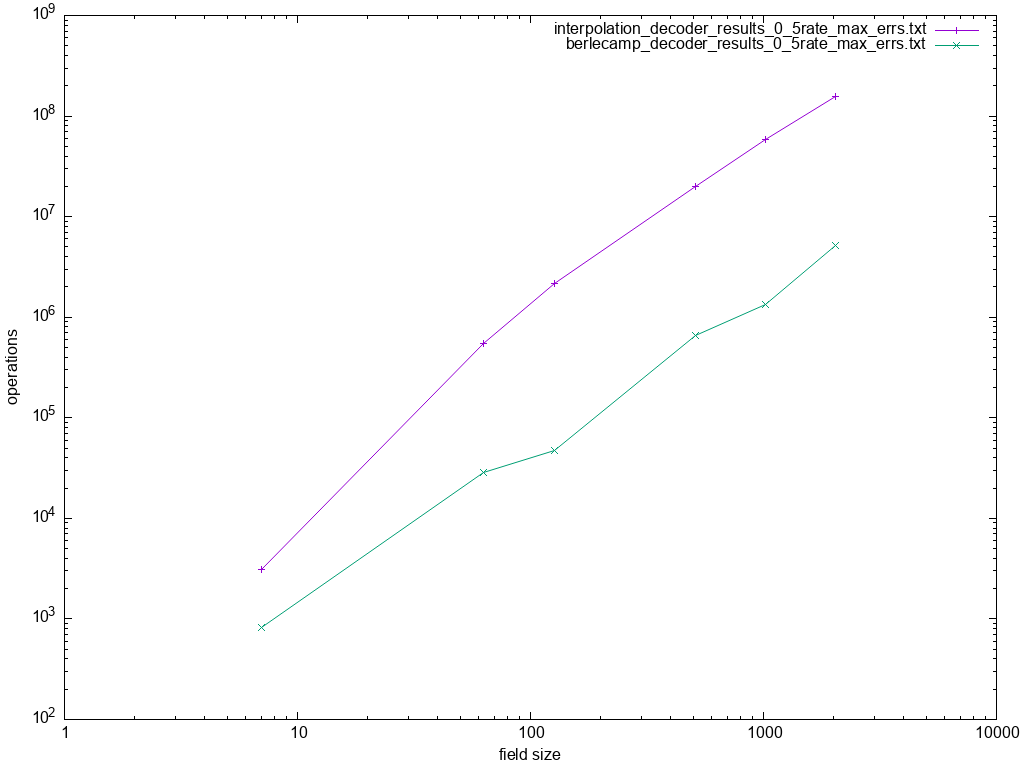
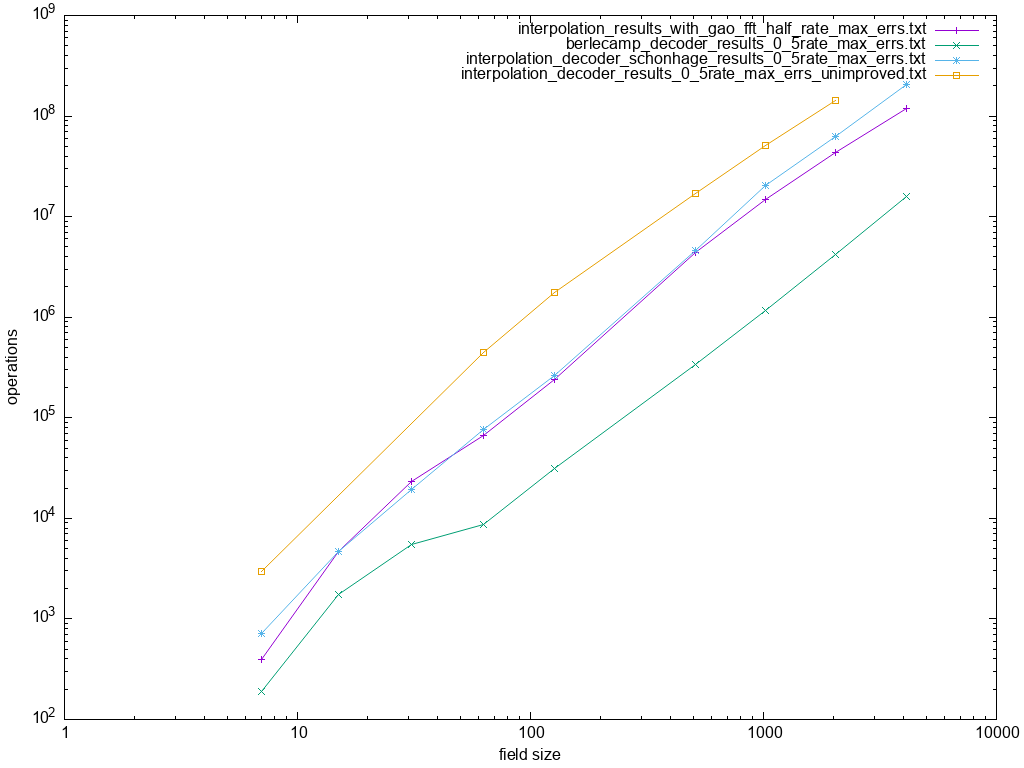
add_poly assymtotic blow up fixed

diff --git a/fast_interpolation_reed_solomon_decoder/galois_field.cpp b/fast_interpolation_reed_solomon_decoder/galois_field.cpp
@@ -89,38 +89,41 @@ void galois_field::init() {
 	//}
 	////std::cout << "\n";
 	size_t tmp_sizes = _q;
+	size_t cur = tmp_sizes;
 	_emgcd_tmp_polynomials.resize(_m + 3);
 	for (auto& tmp : _emgcd_tmp_polynomials) {
 		for (auto& v : tmp) {
-			v.resize(tmp_sizes);
+			v.resize(2 * cur);
 		}
+		cur >>= 1;
+		++cur;
 	}
 
+	cur = tmp_sizes;
 	_emgcd_tmp_result.resize(_m + 3);
 	for (auto& tmp : _emgcd_tmp_result) {
 		for (auto& v : tmp) {
-			v.first.resize(tmp_sizes);
-			v.second.resize(tmp_sizes);
+			v.first.resize(2 * cur);
+			v.second.resize(2 * cur);
 		}
+		cur >>= 1;
+		++cur;
+
 	}
+	cur = tmp_sizes;
 	_emgcd_tmp_result2.resize(_m + 3);
 	for (auto& tmp : _emgcd_tmp_result2) {
 		for (auto& v : tmp) {
-			v.first.resize(tmp_sizes);
-			v.second.resize(tmp_sizes);
+			v.first.resize(2 * cur);
+			v.second.resize(2 * cur);
 		}
+		cur >>= 1;
+		++cur;
 	}
 
-	_dft_tmp.resize(_m + 1);
-	_idft_tmp.resize(_m + 1);
+	_dft_tmp.resize(1);
 	for (auto& a : _dft_tmp) {
-		a.resize(tmp_sizes);
-		for (auto& v : a) {
-			v.resize(tmp_sizes);
-		}
-	}
-	for (auto& a : _idft_tmp) {
-		a.resize(tmp_sizes);
+		a.resize(2);
 		for (auto& v : a) {
 			v.resize(tmp_sizes);
 		}
@@ -146,8 +149,8 @@ void galois_field::init() {
 
 	std::cout << "initting mult tmps\n";
 	size_t size = 9 * _q;
-	/*
-	for (size_t i = 0; i < _schonhage_dft_tmp.size(); ++i) {
+	
+	/*for (size_t i = 0; i < _schonhage_dft_tmp.size(); ++i) {
 		_schonhage_dft_tmp[i].resize(size);
 		for (auto& v : _schonhage_dft_tmp[i]) {
 			v.resize(size);
@@ -325,32 +328,32 @@ std::vector<unsigned>& galois_field::fast_poly_multiplication(std::vector<unsign
 
 std::vector<unsigned>& galois_field::fast_poly_multiplication(std::vector<unsigned>& a, std::vector<unsigned>& b, std::vector<unsigned>& dst, unsigned length) {
 	++_poly_multiplications;
-	//if (length <= 128 || length > _q / 2) {
+	if (length <= 128 || length > _q / 2) {
 		size_t len = 1 << (sizeof(unsigned) * 8 - std::countl_zero(length - 1));
 		caratsuba_multiplication(a, b, _multiplication_result_tmp, len, 0);
 
-	//}
-	//else if (length <= _q / 2) {
-		//size_t len = 1 << (sizeof(unsigned) * 8 - std::countl_zero(length - 1));
-		//caratsuba_multiplication(a, b, _multiplication_result_tmp, len, 0);
+	}
+	else if (length <= _q / 2) {
+		size_t len = 1 << (sizeof(unsigned) * 8 - std::countl_zero(length - 1));
+		caratsuba_multiplication(a, b, _multiplication_result_tmp, len, 0);
 		//print_poly(_multiplication_result_tmp);
-		//unsigned m = sizeof(unsigned) * 8 - std::countl_zero(length - 1) + 1;
+		unsigned m = sizeof(unsigned) * 8 - std::countl_zero(length - 1) + 1;
 		//std::cout << _q << " " << length << " " << m << "\n";
-		//for (size_t i = 0; i < 3; ++i) {
-			//std::fill(_caratsuba_tmp[0][i].begin(), _caratsuba_tmp[0][i].begin() + _n, 0);
-		//}
+		for (size_t i = 0; i < 3; ++i) {
+			std::fill(_caratsuba_tmp[0][i].begin(), _caratsuba_tmp[0][i].begin() + _n, 0);
+		}
 		//print_poly(a);
 		//print_poly(b);
-		//std::fill(_multiplication_result_tmp.begin(), _multiplication_result_tmp.end(), 0);
-		//gao_mateer_fft(a, _caratsuba_tmp[0][0], m);
-		//gao_mateer_fft(b, _caratsuba_tmp[0][1], m);
-		//for (size_t i = 0; i < (1 << m); ++i) {
-			//_caratsuba_tmp[0][2][i] = multiply(_caratsuba_tmp[0][0][i], _caratsuba_tmp[0][1][i]);
-		//}
+		std::fill(_multiplication_result_tmp.begin(), _multiplication_result_tmp.end(), 0);
+		gao_mateer_fft(a, _caratsuba_tmp[0][0], m);
+		gao_mateer_fft(b, _caratsuba_tmp[0][1], m);
+		for (size_t i = 0; i < (1 << m); ++i) {
+			_caratsuba_tmp[0][2][i] = multiply(_caratsuba_tmp[0][0][i], _caratsuba_tmp[0][1][i]);
+		}
 		//print_poly(_caratsuba_tmp[0][2]);
-		//gao_mateer_ifft(_caratsuba_tmp[0][2], _multiplication_result_tmp, m);
+		gao_mateer_ifft(_caratsuba_tmp[0][2], _multiplication_result_tmp, m);
 		//print_poly(_multiplication_result_tmp);
-	//} /*else {
+	} /*else {
 		//unsigned len = length - 1;
 		//unsigned n = 1;
 		//while (len >= 1) {
@@ -380,7 +383,7 @@ std::vector<unsigned>& galois_field::fast_poly_multiplication(std::vector<unsign
 		}
 		
 	
-	} else {
+	}*/ /*else {
 		unsigned len = length - 1;
 		unsigned n = 1;
 		while (len >= 1) {
@@ -474,14 +477,14 @@ std::array<std::pair<std::vector<unsigned>, std::vector<unsigned>>, 3>&
 	fast_poly_multiplication(result[1].first, locals[2], locals[4]);
 	fast_poly_multiplication(result[2].first, locals[3], locals[1]);
 	
-	add_poly(locals[4], locals[1], locals[0], 0);
-	add_poly(locals[0], result[0].first, locals[4], m); // d
+	add_poly(locals[4], locals[1], locals[0], 0, n + 1);
+	add_poly(locals[0], result[0].first, locals[4], m, n + 1); // d
 	
 	// in some locals may be litter
 	fast_poly_multiplication(result[1].second, locals[2], locals[5]);
 	fast_poly_multiplication(result[2].second, locals[3], locals[1]);
-	add_poly(locals[5], locals[1], locals[0], 0);
-	add_poly(locals[0], result[0].second, locals[5], m); // e
+	add_poly(locals[5], locals[1], locals[0], 0, n + 1);
+	add_poly(locals[0], result[0].second, locals[5], m, n + 1); // e
 
 	unsigned deg_e = degree(locals[5]);
 	if (deg_e < m) {
@@ -511,18 +514,18 @@ std::array<std::pair<std::vector<unsigned>, std::vector<unsigned>>, 3>&
 	// fst part of the answer
 	fast_poly_multiplication(result2[1].first, locals[2], locals[0]);
 	fast_poly_multiplication(result2[2].first, locals[3], locals[1]);
-	add_poly(locals[0], locals[1], locals[4], 0);
+	add_poly(locals[0], locals[1], locals[4], 0, n + 1);
 	swap(locals[0], locals[4]);
 
-	add_poly(locals[0], result2[0].first, locals[4], k); // d
+	add_poly(locals[0], result2[0].first, locals[4], k, n + 1); // d
 
 	// in some locals may be litter
 	fast_poly_multiplication(result2[1].second, locals[2], locals[0]);
 	fast_poly_multiplication(result2[2].second, locals[3], locals[1]);
-	add_poly(locals[0], locals[1], locals[5], 0);
+	add_poly(locals[0], locals[1], locals[5], 0, n + 1);
 	swap(locals[0], locals[5]);
 
-	add_poly(locals[0], result2[0].second, locals[5], k); // e
+	add_poly(locals[0], result2[0].second, locals[5], k, deg_e + 1); // e
 	// locals [0..3] can be reused
 
 	dst[0].first = locals[4];
@@ -530,26 +533,26 @@ std::array<std::pair<std::vector<unsigned>, std::vector<unsigned>>, 3>&
 
 	// multiply matrices (may be optimized)
 	fast_poly_multiplication(result2[2].first, locals[6], locals[0]);
-	add_poly(result2[1].first, locals[0], locals[1], 0);
+	add_poly(result2[1].first, locals[0], locals[1], 0, n + 1);
 
 	fast_poly_multiplication(result2[2].second, locals[6], locals[0]);
-	add_poly(result2[1].second, locals[0], locals[2], 0);
+	add_poly(result2[1].second, locals[0], locals[2], 0, n + 1);
 
 	fast_poly_multiplication(result2[2].first, result[1].first, locals[0]);
 	fast_poly_multiplication(locals[1], result[1].second, locals[3]);
-	add_poly(locals[0], locals[3], dst[1].first, 0);
+	add_poly(locals[0], locals[3], dst[1].first, 0, n + 1);
 
 	fast_poly_multiplication(result2[2].second, result[1].first, locals[0]);
 	fast_poly_multiplication(locals[2], result[1].second, locals[3]);
-	add_poly(locals[0], locals[3], dst[1].second, 0);
+	add_poly(locals[0], locals[3], dst[1].second, 0, n + 1);
 
 	fast_poly_multiplication(result2[2].first, result[2].first, locals[0]);
 	fast_poly_multiplication(locals[1], result[2].second, locals[3]);
-	add_poly(locals[0], locals[3], dst[2].first, 0);
+	add_poly(locals[0], locals[3], dst[2].first, 0, n + 1);
 
 	fast_poly_multiplication(result2[2].second, result[2].first, locals[0]);
 	fast_poly_multiplication(locals[2], result[2].second, locals[3]);
-	add_poly(locals[0], locals[3], dst[2].second, 0);
+	add_poly(locals[0], locals[3], dst[2].second, 0, n + 1);
 	// end multiply 
 
 
@@ -652,9 +655,24 @@ std::vector<unsigned>& galois_field::DFT(std::vector<unsigned>& src, std::vector
 	if (_n == 7 || _n == 63 || _n == 127 || _n == 255 ||
 		_n == 511 || _n == 1023 || _n == 2047 || _n == 4095) {
 		call_fft(*this, src, dst, _n);
+
+		gao_mateer_fft(src, _dft_tmp[0][0], _m);
+		// reorder
+		for (size_t i = 0; i < _n; ++i) {
+			_dft_tmp[0][1][i] = _dft_tmp[0][0][_exp_table[i]];
+		}
+		for (size_t i = 0; i < _n; ++i) {
+			assert(_dft_tmp[0][1][i] == dst[i]);
+		}
+
 	}
 	else {
-		gao_mateer_fft(src, dst, _m);
+		gao_mateer_fft(src, _dft_tmp[0][0], _m);
+		// reorder
+		for (size_t i = 0; i < _n; ++i) {
+			dst[i] = _dft_tmp[0][0][_exp_table[i]];
+		}
+
 	}
 	return dst;
 }
@@ -666,7 +684,12 @@ std::vector<unsigned>& galois_field::IDFT(std::vector<unsigned>& src, std::vecto
 		std::reverse(dst.begin() + 1, dst.begin() + _n);
 	}
 	else {
-		gao_mateer_ifft(src, dst, _m);
+		for (size_t i = 0; i < _n; ++i) {
+			_dft_tmp[0][0][_exp_table[i]] = src[i];
+		}
+		gao_mateer_ifft(_dft_tmp[0][0], _dft_tmp[0][1], _m);
+		_dft_tmp[0][1][0] = add(_dft_tmp[0][1][0], _dft_tmp[0][1][_n]);
+		std::copy(_dft_tmp[0][1].begin(), _dft_tmp[0][1].begin() + _n, dst.begin());
 	}
 	return dst;
 }
@@ -924,7 +947,7 @@ std::vector<unsigned>& galois_field::SCHONHAGE_STRASSEN_FFT(std::vector<unsigned
 		std::copy(tmp[2].begin(), tmp[2].begin() + std::min((size_t)2 * n, dst.size()), dst.begin());
 		return dst;
 	}
-	if (n <= 256) {
+	if (n <= 128) {
 		size_t len = 1 << (sizeof(unsigned) * 8 - std::countl_zero(n - 1) + 1);
 		caratsuba_multiplication(tmp[6], tmp[7], tmp[2], len, 0);
 		add_subpoly_with_modular_shift(tmp[2], tmp[2], 0, 2 * n, 4 * n, n, 2 * n);
@@ -1076,8 +1099,12 @@ void galois_field::split_poly(std::vector<unsigned> const& p, std::vector<unsign
 }
 
 std::vector<unsigned>& galois_field::add_poly(std::vector<unsigned>& a, std::vector<unsigned>& b, std::vector<unsigned>& dst, unsigned m) {
-	std::fill(dst.begin(), dst.end(), 0);
-	for (unsigned i = 0; i < a.size(); ++i) {
+	return add_poly(a, b, dst, m, degree(a) + 1);
+}
+
+std::vector<unsigned>& galois_field::add_poly(std::vector<unsigned>& a, std::vector<unsigned>& b, std::vector<unsigned>& dst, unsigned m, unsigned length) {
+	std::fill(dst.begin(), dst.begin() + std::min(dst.size(), (size_t)length), 0);
+	for (unsigned i = 0; i < std::min(a.size(), (size_t)length); ++i) {
 		if (i < m) {
 			dst[i] = a[i];
 		}

diff --git a/main.cpp b/main.cpp
@@ -70,7 +70,7 @@ int main(int argc, char* argv[])
 {
 	double k_rate, err_rate;
 	int type;
-	std::ofstream out("berlecamp_decoder_results_0_75rate_half_errs.txt");
+	std::ofstream out("interpolation_decoder_results_0_5rate_max_errs.txt");
 	//out << "hello\n";
 	if (false) {
 		if (argc != 4) {
@@ -103,8 +103,8 @@ int main(int argc, char* argv[])
 	//////test_decoder(gf2, 127, 11, 15);
 
 	////galois_field gf(3, 0xb, 3);
-	std::vector<unsigned> field_sizes = { 3, 4, 5, 6, 7, 9, 10, 11, 12, 13 };
-	std::vector<unsigned> field_generators = { 0xb, 0x13, 0x25, 0x43, 0x83, 0x211, 0x409, 0x805, 0x1053, 0x201b };
+	std::vector<unsigned> field_sizes = { 3, 4, 5, 6, 7, 9, 10, 11, 12, 13, 14, 15, 16};
+	std::vector<unsigned> field_generators = { 0xb, 0x13, 0x25, 0x43, 0x83, 0x211, 0x409, 0x805, 0x1053, 0x201b, 0x4143, 0x8003, 0x1100b };
 	//// 2 2
 	for (size_t i = 0; i < field_sizes.size(); ++i) {
 		galois_field gf(field_sizes[i], field_generators[i], field_sizes[i]);

diff --git a/fast_interpolation_reed_solomon_decoder/galois_field.h b/fast_interpolation_reed_solomon_decoder/galois_field.h
@@ -59,6 +59,7 @@ struct galois_field
 	unsigned degree(std::vector<unsigned> const&, unsigned, unsigned);
 	std::vector<unsigned>& rev_poly(std::vector<unsigned>&, std::vector<unsigned>&, unsigned);
 	std::vector<unsigned>& add_poly(std::vector<unsigned>&, std::vector<unsigned>&, std::vector<unsigned>&, unsigned);
+	std::vector<unsigned>& add_poly(std::vector<unsigned>&, std::vector<unsigned>&, std::vector<unsigned>&, unsigned, unsigned);
 	std::vector<unsigned>& add_poly_to(std::vector<unsigned>&, std::vector<unsigned>&, unsigned, unsigned);
 	std::vector<unsigned>& sub_poly(std::vector<unsigned>&, std::vector<unsigned>&, std::vector<unsigned>&);
 
